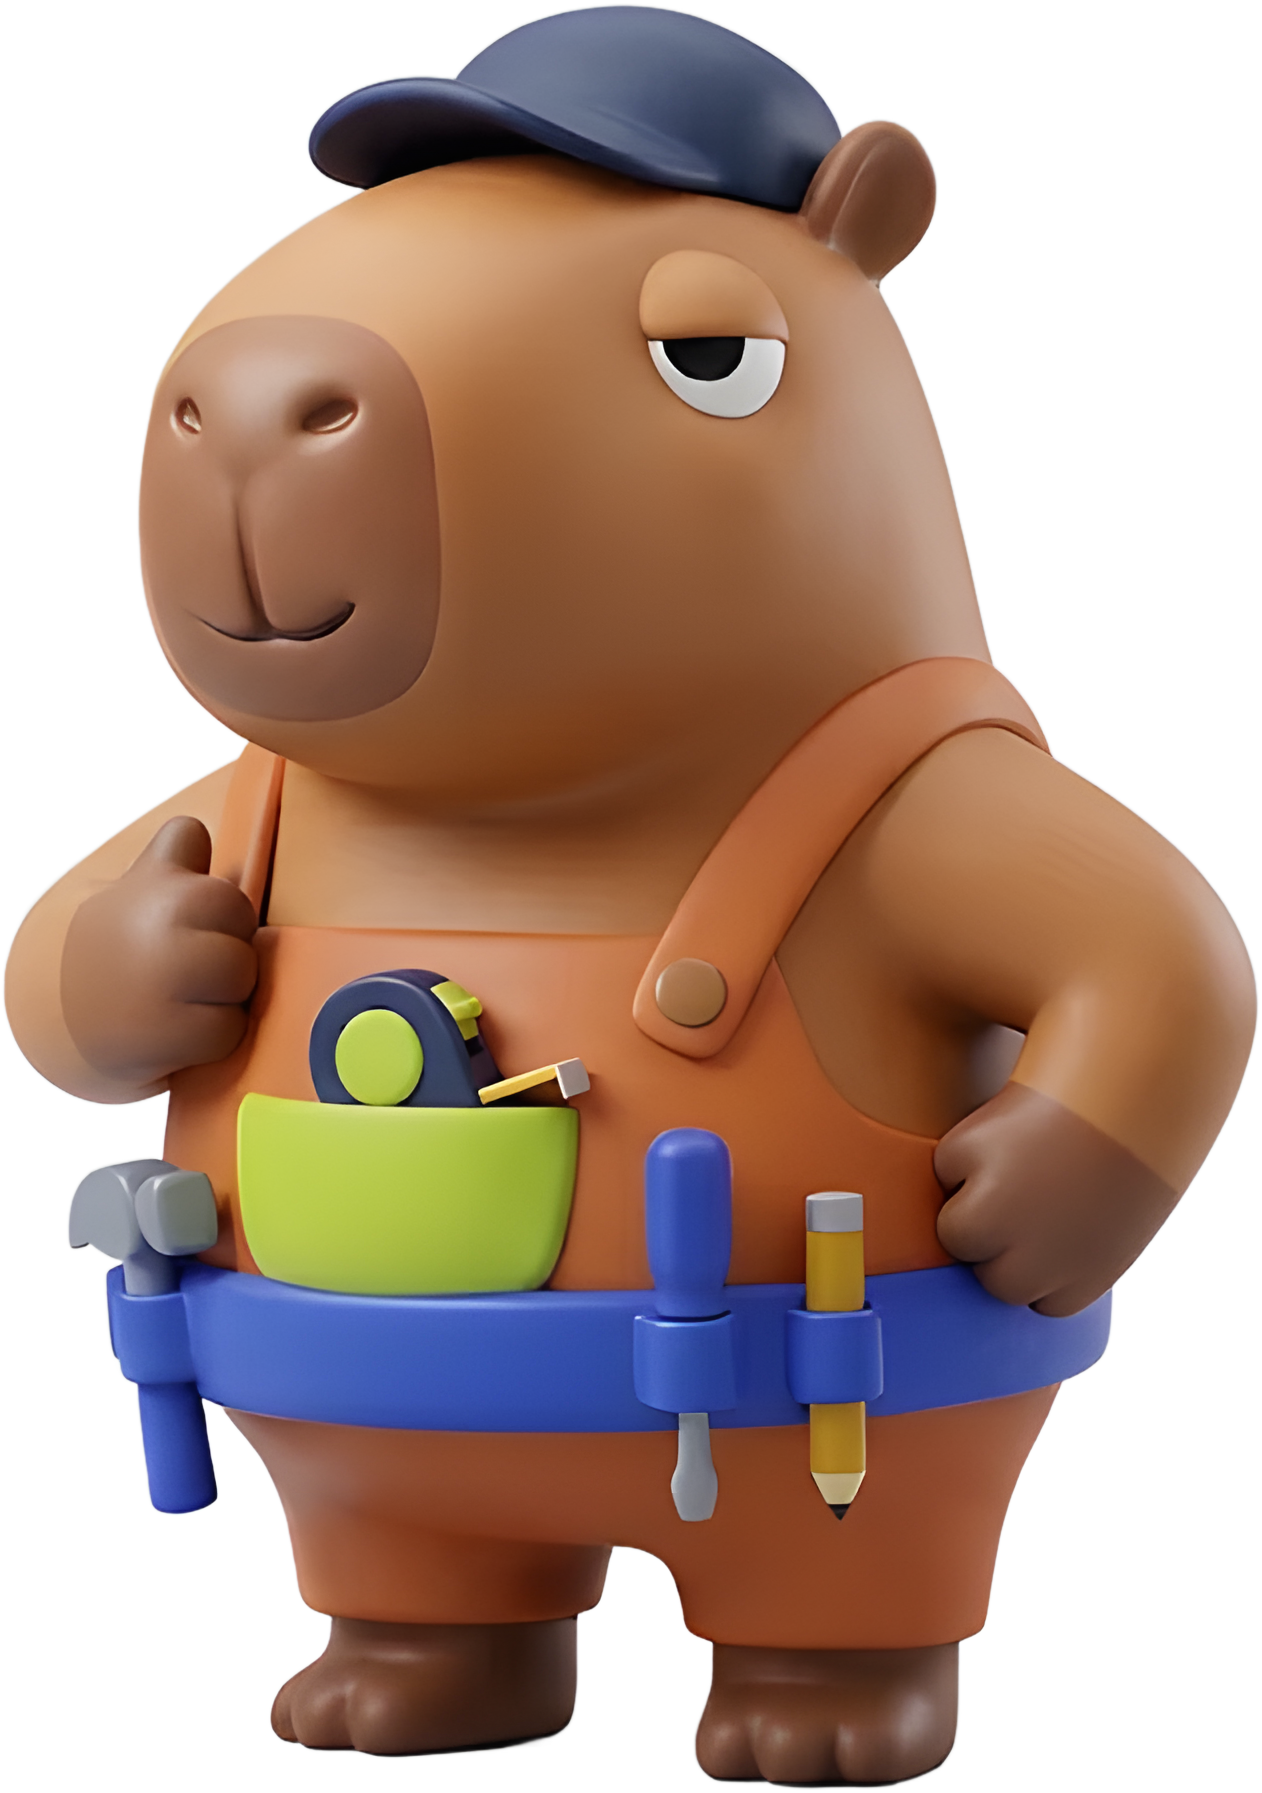
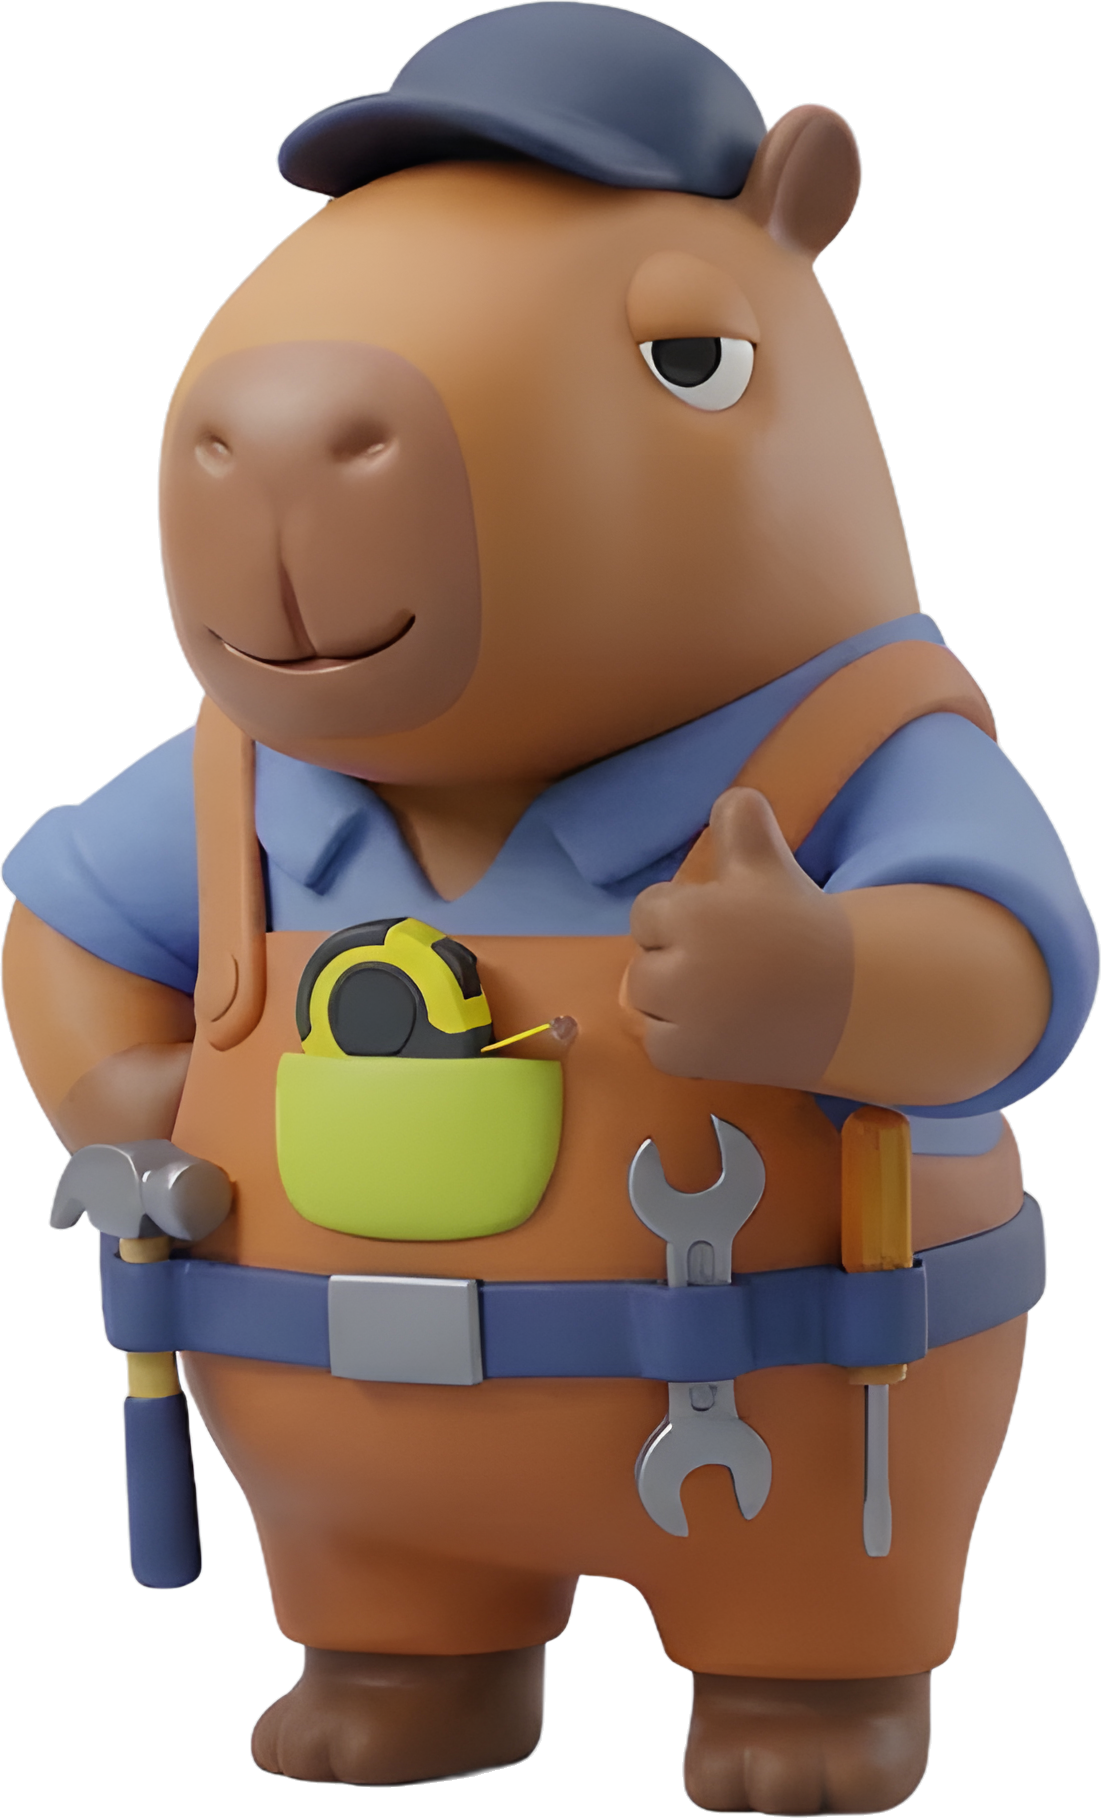
Capi: nome da mascote no app e site; versão neutra com camisa azul
Claude-Session: https://claude.ai/code/session_011c2NkLohVmK7xrHnMrtwVe

diff --git a/orcamento/index.html b/orcamento/index.html
@@ -246,7 +246,7 @@ details .in{display:flex;flex-direction:column;gap:10px;margin-top:8px}
         <p class="hint" data-v="gravando" style="justify-content:center">Fale à vontade: cliente, cômodos, medidas e como está a parede.</p>
         <button class="mic enviar-g" id="voz-enviar" data-v="gravando">Pronto, enviar <svg class="ic" viewBox="0 0 24 24" fill="none" stroke="currentColor" stroke-width="2.6" stroke-linecap="round" stroke-linejoin="round" aria-hidden="true"><path d="M5 12h14M13 6l6 6-6 6"/></svg></button>
         <div class="voz-links" data-v="gravando"><button class="link" id="voz-cancelar">Cancelar</button></div>
-        <div class="lendo" data-v="enviando" role="status"><span id="voz-tr-lendo" style="display:block;width:96px"></span><b>Fazendo a conta do seu áudio…</b><span class="hint">Leva uns 15 segundos.</span></div>
+        <div class="lendo" data-v="enviando" role="status"><span id="voz-tr-lendo" style="display:block;width:96px"></span><b>A Capi tá fazendo a conta do seu áudio…</b><span class="hint">Leva uns 15 segundos.</span></div>
         <div id="voz-res" data-v="feito erro" aria-live="polite"></div>
         <div class="row2" data-v="feito"><button class="sec" id="voz-desfazer">Desfazer</button><button class="mic" id="voz-mais"><svg class="ic" viewBox="0 0 24 24" fill="none" stroke="currentColor" stroke-width="2.4" stroke-linecap="round" stroke-linejoin="round" aria-hidden="true"><rect x="9" y="3" width="6" height="11" rx="3"/><path d="M5 11a7 7 0 0 0 14 0M12 18v3"/></svg> Gravar mais</button></div>
         <div class="voz-links"><button class="link" id="voz-mao" data-entrada="mao">Prefiro preencher na mão</button><button class="link" id="voz-todos" data-entrada="mao">Ver todos os campos</button></div>
@@ -1119,7 +1119,7 @@ document.addEventListener('click',e=>{const b=e.target.closest('[data-entrada]')
 function trenaSVG(expr,cls){
   const f={oi:'celular',medindo:'pensando',feliz:'feliz',triste:'ops'}[expr]||'pensando';
   const alt={oi:'mandando um áudio',medindo:'fazendo a conta',feliz:'comemorando',triste:'sem graça'}[expr]||'fazendo a conta';
-  return `<img class="trena capi ${cls||''}" src="../img/capi/capi-${f}.webp" alt="Capivara do Na Bucha ${alt}" decoding="async">`;
+  return `<img class="trena capi ${cls||''}" src="../img/capi/capi-${f}.webp" alt="Capi, a capivara do Na Bucha, ${alt}" decoding="async">`;
 }
 
 $('#ola-trena').innerHTML=trenaSVG('oi');$('#voz-tr-lendo').innerHTML=trenaSVG('medindo');$('#voz-tr-erro').innerHTML=trenaSVG('triste');

diff --git a/index.html b/index.html
@@ -173,7 +173,7 @@ h1 span:nth-child(3){animation-delay:.3s;color:var(--limao)}
   </div>
 
   <div class="palco" aria-hidden="true">
-    <div class="tr-palco"><img src="img/capi/capi-celular.webp" width="555" height="720" alt="Capivara do Na Bucha mandando um áudio"></div>
+    <div class="tr-palco"><img src="img/capi/capi-celular.webp" width="555" height="720" alt="Capi, a capivara do Na Bucha, mandando um áudio"></div>
     <div class="zap">
       <div class="zap-topo"><i><svg viewBox="-2 2 204 96" fill="#C8FF2E"><rect x="8" y="38" width="170" height="24" rx="10"/><rect x="56" y="8" width="26" height="84" rx="11"/><rect x="124" y="8" width="26" height="84" rx="11"/><rect x="90" y="19" width="26" height="62" rx="11"/></svg></i>Na Bucha · exemplo</div>
       <div class="balao audio" id="aAudio"><span class="play"></span><span class="onda" id="onda"></span><em>0:38</em></div>
@@ -270,7 +270,7 @@ h1 span:nth-child(3){animation-delay:.3s;color:var(--limao)}
 <!-- ============ FIM ============ -->
 <section class="tela" id="fim" aria-label="Pronto">
   <div class="fim-in">
-    <div class="fim-tr"><img src="img/capi/capi-feliz.webp" width="252" height="360" alt="Capivara do Na Bucha comemorando"></div>
+    <div class="fim-tr"><img src="img/capi/capi-feliz.webp" width="252" height="360" alt="Capi, a capivara do Na Bucha, comemorando"></div>
     <h2 id="fimTit">Fechou! Você tá na lista.</h2>
     <p>Quando abrir, a gente te chama. Os primeiros da lista testam antes.</p>
     <div class="fim-bts">
